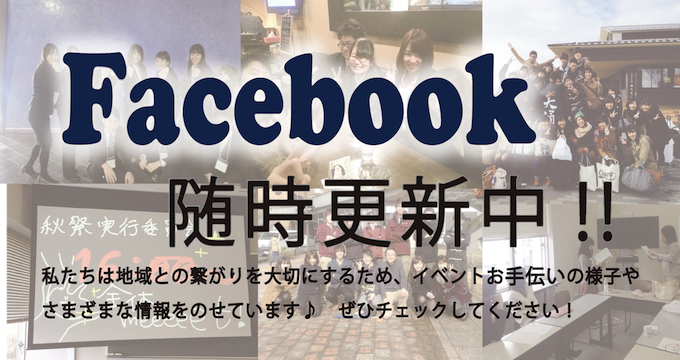
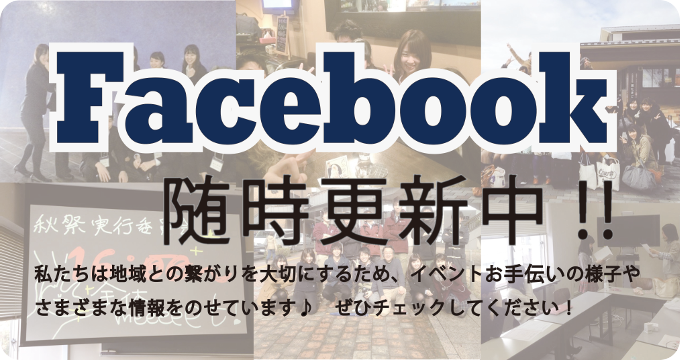
topicの画像差し替え

diff --git a/css/style.css b/css/style.css
@@ -1020,6 +1020,7 @@ div#___plusone_0 iframe
 {
 	opacity: 0.6;
 	border: 1px solid #F5F7F8;
+	border-radius: 6px;
 
 /*	-webkit-box-sizing: border-box;
 	-moz-box-sizing: border-box;
@@ -1057,9 +1058,9 @@ div#___plusone_0 iframe
 {
 	top: 20px;
 	left: 30px;
-	-webkit-transform: rotate(-10deg);
-	-moz-transform: rotate(-10deg);
-	transform: rotate(-10deg);
+	-webkit-transform: rotate(-8deg);
+	-moz-transform: rotate(-8deg);
+	transform: rotate(-8deg);
 
 	-webkit-transition: all 0.5s ease-out;
 	-moz-transition: all 0.5s ease-out;
@@ -1069,9 +1070,9 @@ div#___plusone_0 iframe
 {
 	top: 80px;
 	left: 170px;
-	-webkit-transform: rotate(15deg);
-	-moz-transform: rotate(15deg);
-	transform: rotate(15deg);
+	-webkit-transform: rotate(10deg);
+	-moz-transform: rotate(10deg);
+	transform: rotate(10deg);
 
 	-webkit-transition: all 0.5s ease-out;
 	-moz-transition: all 0.5s ease-out;
@@ -1079,7 +1080,7 @@ div#___plusone_0 iframe
 }
 #mc-topic li:nth-of-type(3)
 {
-	top: 130px;
+	top: 140px;
 	left: 40px;
 	-webkit-transform: rotate(5deg);
 	-moz-transform: rotate(5deg);
@@ -1091,8 +1092,8 @@ div#___plusone_0 iframe
 }
 #mc-topic img
 {
-	width: 120px;
-	height: 70px;
+	width: auto;
+	height: auto;
 	vertical-align: top;
 }
 #mc-topic li span

diff --git a/contact.html b/contact.html
@@ -182,9 +182,9 @@
 	<aside id="mc-topic" class="contentsbox mc-side-first">
 		<h1>Topics</h1>
 			<ul>
-				<li class="clearfix"><a href="freshman.html"><img src="img/banner/freshman.png" alt="SFC新入生の皆さんへ" id="hogehoge"></a><span></span></li>
-				<li><a href="https://www.facebook.com/SFCakimatsuri14" target="_blank"><img src="img/banner/facebook.png" alt="Facebook更新中"></a></li>
-				<li><a href="support.html"><img src="img/banner/banner.png" alt="ご協賛広告募集中"></a></li>
+				<li class="clearfix"><a href="freshman.html"><img src="img/banner/topic1.png" alt="SFC新入生の皆さんへ" id="hogehoge"></a><span></span></li>
+				<li><a href="https://www.facebook.com/SFCakimatsuri14" target="_blank"><img src="img/banner/topic2.png" alt="Facebook更新中"></a></li>
+				<li><a href="support.html"><img src="img/banner/topic3.png" alt="ご協賛広告募集中"></a></li>
 			</ul>
 	</aside>
 </div>

diff --git a/comingsoon.html b/comingsoon.html
@@ -182,9 +182,9 @@
 	<aside id="mc-topic" class="contentsbox">
 		<h1>Topics</h1>
 			<ul>
-				<li class="clearfix"><a href="freshman.html"><img src="img/banner/freshman.png" alt="SFC新入生の皆さんへ" id="hogehoge"></a><span></span></li>
-				<li><a href="https://www.facebook.com/SFCakimatsuri14" target="_blank"><img src="img/banner/facebook.png" alt="Facebook更新中"></a></li>
-				<li><a href="support.html"><img src="img/banner/banner.png" alt="ご協賛広告募集中"></a></li>
+				<li class="clearfix"><a href="freshman.html"><img src="img/banner/topic1.png" alt="SFC新入生の皆さんへ" id="hogehoge"></a><span></span></li>
+				<li><a href="https://www.facebook.com/SFCakimatsuri14" target="_blank"><img src="img/banner/topic2.png" alt="Facebook更新中"></a></li>
+				<li><a href="support.html"><img src="img/banner/topic3.png" alt="ご協賛広告募集中"></a></li>
 			</ul>
 	</aside>
 </div>

diff --git a/freshman.html b/freshman.html
@@ -185,9 +185,9 @@
 	<aside id="mc-topic" class="contentsbox">
 		<h1>Topics</h1>
 			<ul>
-				<li class="clearfix"><a href="freshman.html"><img src="img/banner/freshman.png" alt="SFC新入生の皆さんへ" id="hogehoge"></a><span></span></li>
-				<li><a href="https://www.facebook.com/SFCakimatsuri14" target="_blank"><img src="img/banner/facebook.png" alt="Facebook更新中"></a></li>
-				<li><a href="support.html"><img src="img/banner/banner.png" alt="ご協賛広告募集中"></a></li>
+				<li class="clearfix"><a href="freshman.html"><img src="img/banner/topic1.png" alt="SFC新入生の皆さんへ" id="hogehoge"></a><span></span></li>
+				<li><a href="https://www.facebook.com/SFCakimatsuri14" target="_blank"><img src="img/banner/topic2.png" alt="Facebook更新中"></a></li>
+				<li><a href="support.html"><img src="img/banner/topic3.png" alt="ご協賛広告募集中"></a></li>
 			</ul>
 	</aside>
 </div>
